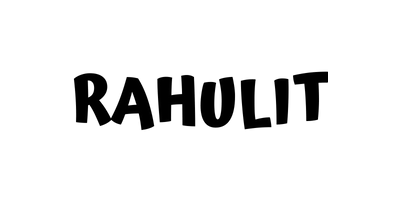
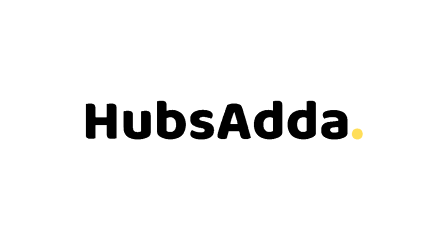
up

Changed region(s): [[0.18, 0.36, 0.84, 0.66]]

diff --git a/index.html b/index.html
@@ -21,16 +21,7 @@
   <link rel="stylesheet" href="assets/theme/css/style.css">
   <link rel="stylesheet" href="assets/mobirise/css/mbr-additional.css" type="text/css">
   
- <!-- Global site tag (gtag.js) - Google Analytics -->
-<script async src="https://www.googletagmanager.com/gtag/js?id=UA-138688182-2"></script>
-<script>
-  window.dataLayer = window.dataLayer || [];
-  function gtag(){dataLayer.push(arguments);}
-  gtag('js', new Date());
-
-  gtag('config', 'UA-138688182-2');
-</script>
- 
+  
   
 </head>
 <body>
@@ -73,7 +64,7 @@
     </nav>
 </section>
 
-<section class="engine"><a href="https://mobirise.info/i">web creation software</a></section><section class="header11 cid-roxOfU7Hva mbr-fullscreen" id="header11-2">
+<section class="engine"><a href="https://mobirise.info/s">free bootstrap themes</a></section><section class="header11 cid-roxOfU7Hva mbr-fullscreen" id="header11-2">
 
     <!-- Block parameters controls (Blue "Gear" panel) -->
     
@@ -333,7 +324,7 @@
                     <div class="media-container-row">
                         <div class="col-md-12">
                             <div class="wrap-img ">
-                                <a href="https://www.rahulit.com/online-photo-editor/" target="_blank"><img src="assets/images/cropped-copy-of-untitled-1-3-400x200.png" class="img-responsive clients-img" alt="Online Photo Editor Review" title="Online Photo Editor Review"></a>
+                                <a href="https://hubsadda.com/online-photo-editor/" target="_blank"><img src="assets/images/cropped-copy-of-untitled-1-3-443x243.png" class="img-responsive clients-img" alt="Online Photo Editor Review" title="Online Photo Editor Review"></a>
                             </div>
                         </div>
                     </div>

diff --git a/privacy.html b/privacy.html
@@ -63,7 +63,7 @@
     </nav>
 </section>
 
-<section class="engine"><a href="https://mobirise.info/y">html site templates</a></section><section class="mbr-section content4 cid-royHor5qFn" id="content4-l">
+<section class="engine"><a href="https://mobirise.info/p">website templates free download</a></section><section class="mbr-section content4 cid-royHor5qFn" id="content4-l">
 
     
 

diff --git a/about.html b/about.html
@@ -64,7 +64,7 @@
     </nav>
 </section>
 
-<section class="engine"><a href="https://mobirise.info/i">free web creation software</a></section><section class="mbr-section content4 cid-royCREnw1M" id="content4-h">
+<section class="engine"><a href="https://mobirise.info/l">free site templates</a></section><section class="mbr-section content4 cid-royCREnw1M" id="content4-h">
 
     
 
